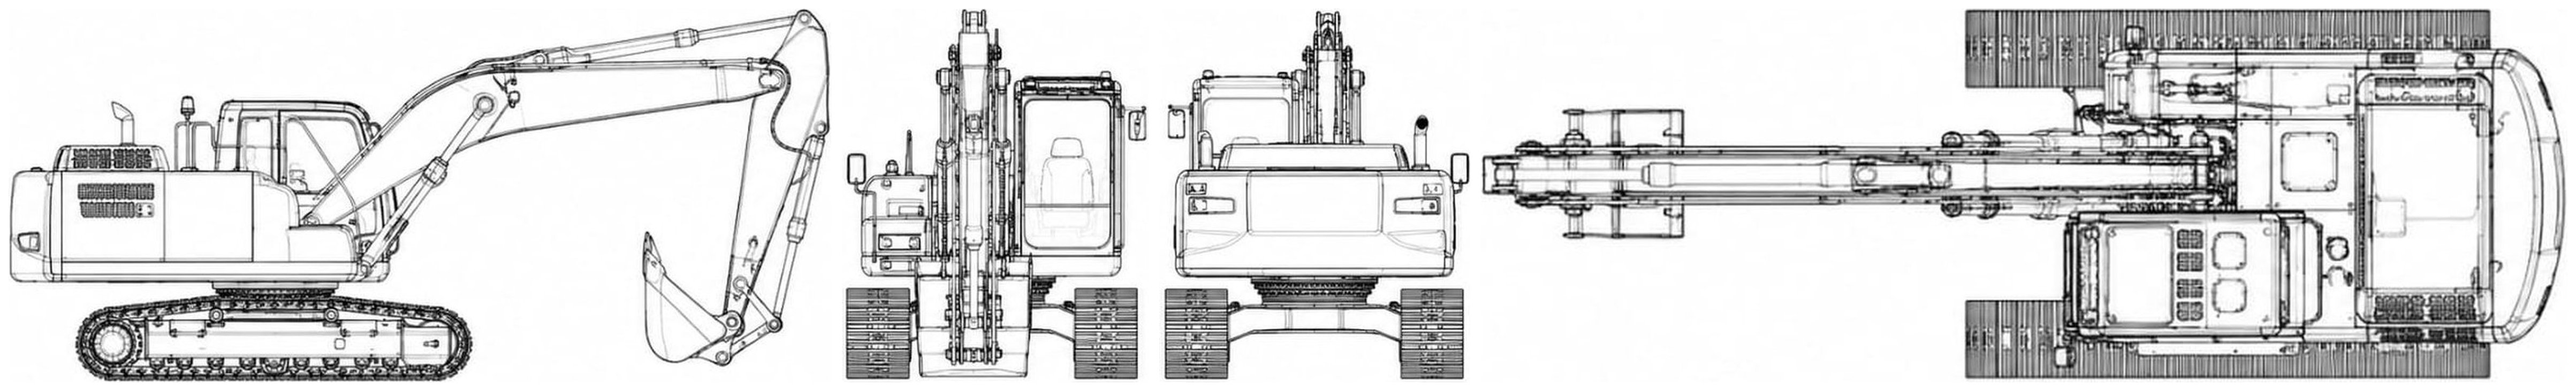
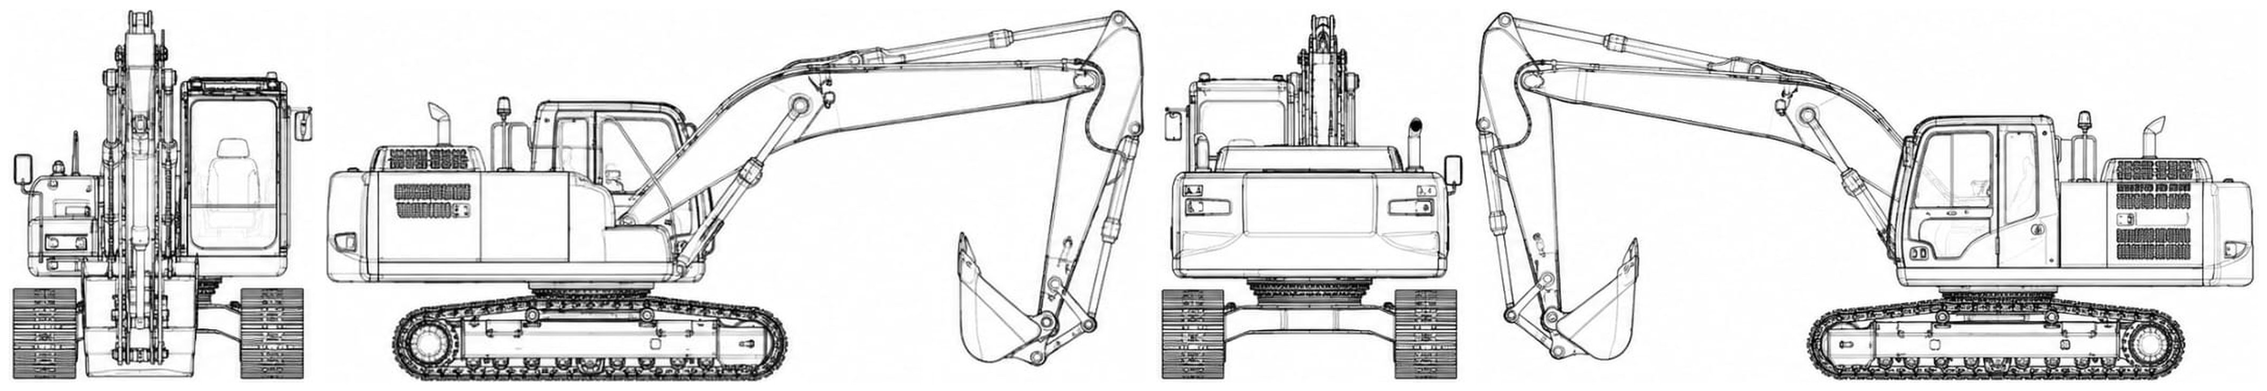
fix: susun sketsa kendaraan 1 baris - depan, belakang, samping kiri-kanan
Ganti arah: sebelumnya sudut atas dipertahankan dan salah satu sudut
samping (yang duplikat) dihapus. Sekarang sebaliknya - sudut atas
yang dihapus, KEDUA sudut samping dipertahankan, semua disusun dalam
1 baris: depan, belakang, samping-kiri, samping-kanan.

- 15 dari 16 gambar kendaraan diproses ulang dari sumber asli (5 sudut
  pandang): deteksi otomatis mana yang sudut atas (dicari lewat
  pasangan mana yang kalau dibuang menyisakan 2 pasang paling mirip -
  depan~belakang dan samping~samping), lalu disusun 1 baris.
- "motor.jpg" dikecualikan: sumber gambarnya menggabungkan 2 kendaraan
  berbeda (motor roda 3 + skuter) dalam 1 lembar, jadi deteksi sudut
  atas salah pilih. Tetap pakai susunan 4-sudut sebelumnya untuk file
  ini karena hasilnya lebih masuk akal.
- FILENAME_TO_RATIO di VehicleSketches.jsx diperbarui ke rasio native
  1-baris yang baru. Semua rasio native sekarang berada jauh di atas
  batas aman (3.8), jadi box sketsa terisi penuh tanpa ruang kosong
  sama sekali untuk 15 kendaraan tersebut.

Diverifikasi lewat page.pdf() + pdfjs-dist sungguhan: tetap genuinely
1 halaman A4 di margin 0.2in-1.0in untuk data pendek maupun data asli
laporan bug. Kotak Tanda Tangan dan font utama tidak disentuh.

Claude-Session: https://claude.ai/code/session_01Jv2gfdGDaTdUd5JmR2cBFN

diff --git a/frontend/src/VehicleSketches.jsx b/frontend/src/VehicleSketches.jsx
@@ -506,30 +506,28 @@ const TYPE_TO_FILENAME = {
   "Dump Crawler":           "dump-crawler",
 };
 
-/* Rasio lebar:tinggi asli tiap file /vehicles/*.jpg — hanya 4 sudut pandang
-   (depan, belakang, atas, 1 samping — duplikat sudut samping kedua dihapus).
-   Layout (1 baris atau 2 baris) dipilih otomatis per kendaraan: dihitung mana
-   yang menghasilkan tinggi render per-baris LEBIH BESAR pada rasio aman
-   (lihat MAX_SKETCH_HEIGHT_RATIO) — kadang 1 baris tanpa letterbox lebih besar
-   (rasio native sudah > batas aman), kadang 2 baris justru lebih besar
-   (rasio native < batas aman, jadi di-clamp & pakai tinggi maksimal). */
+/* Rasio lebar:tinggi asli tiap file /vehicles/*.jpg — 1 baris berisi depan,
+   belakang, samping-kiri, samping-kanan (sudut atas dibuang supaya tidak ada
+   ruang kosong di atas/bawah sketsa). Kecuali "motor" (sumber gambarnya
+   menggabungkan 2 kendaraan berbeda dalam 1 lembar, jadi tetap pakai susunan
+   4-sudut versi sebelumnya yang hasilnya lebih masuk akal untuk file itu). */
 const FILENAME_TO_RATIO = {
-  "sedan": 3.467,
-  "mpv-suv": 4.906,
-  "pickup": 5.068,
-  "truck-box": 4.311,
-  "truck-bak": 4.716,
-  "dump-truck": 7.014,
-  "tangki": 6.235,
-  "concrete-pump": 7.195,
-  "fire-truck": 6.657,
+  "sedan": 9.04,
+  "mpv-suv": 6.559,
+  "pickup": 6.877,
+  "truck-box": 5.993,
+  "truck-bak": 6.518,
+  "dump-truck": 6.91,
+  "tangki": 6.525,
+  "concrete-pump": 7.372,
+  "fire-truck": 6.337,
   "motor": 3.365,
-  "excavator": 6.575,
-  "grader": 3.437,
-  "dozer": 6.374,
-  "vibro": 5.958,
-  "forklift": 6.183,
-  "dump-crawler": 6.072,
+  "excavator": 5.788,
+  "grader": 7.896,
+  "dozer": 6.276,
+  "vibro": 5.399,
+  "forklift": 4.831,
+  "dump-crawler": 5.496,
 };
 /* Batas aman tertinggi (rasio terkecil / box tertinggi) yang masih genuinely
    1 halaman A4 — diverifikasi lewat generate PDF sungguhan (page.pdf() +
